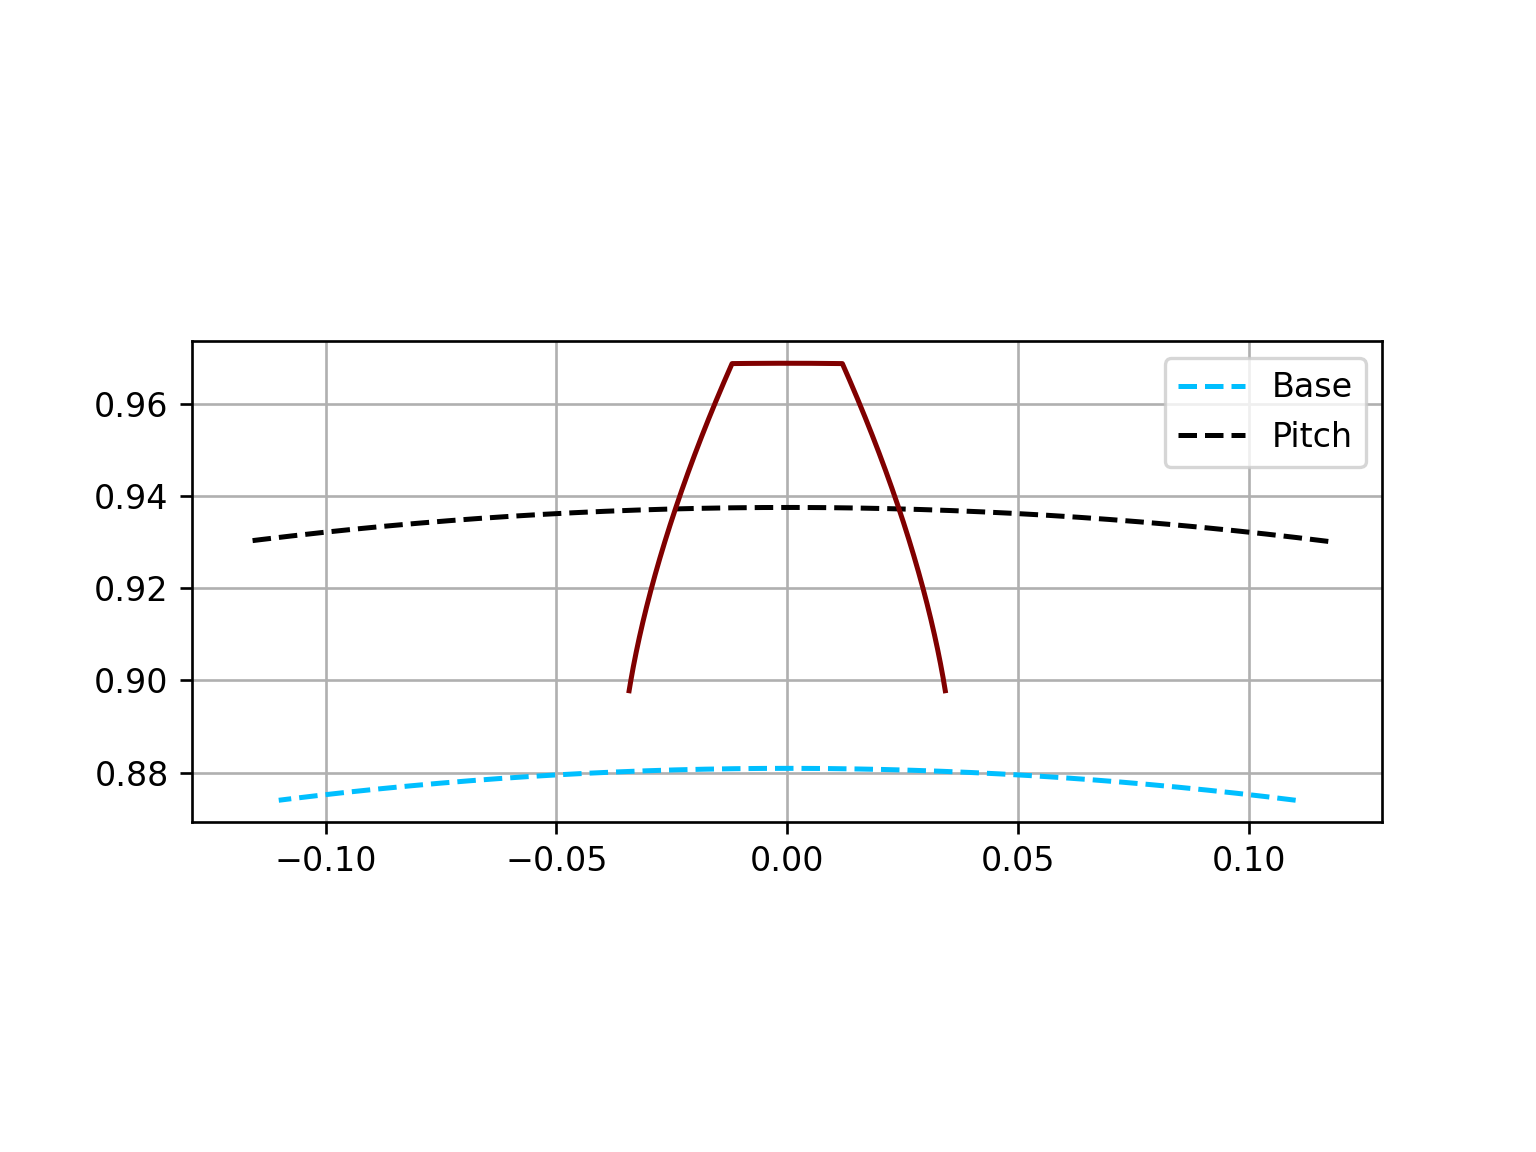
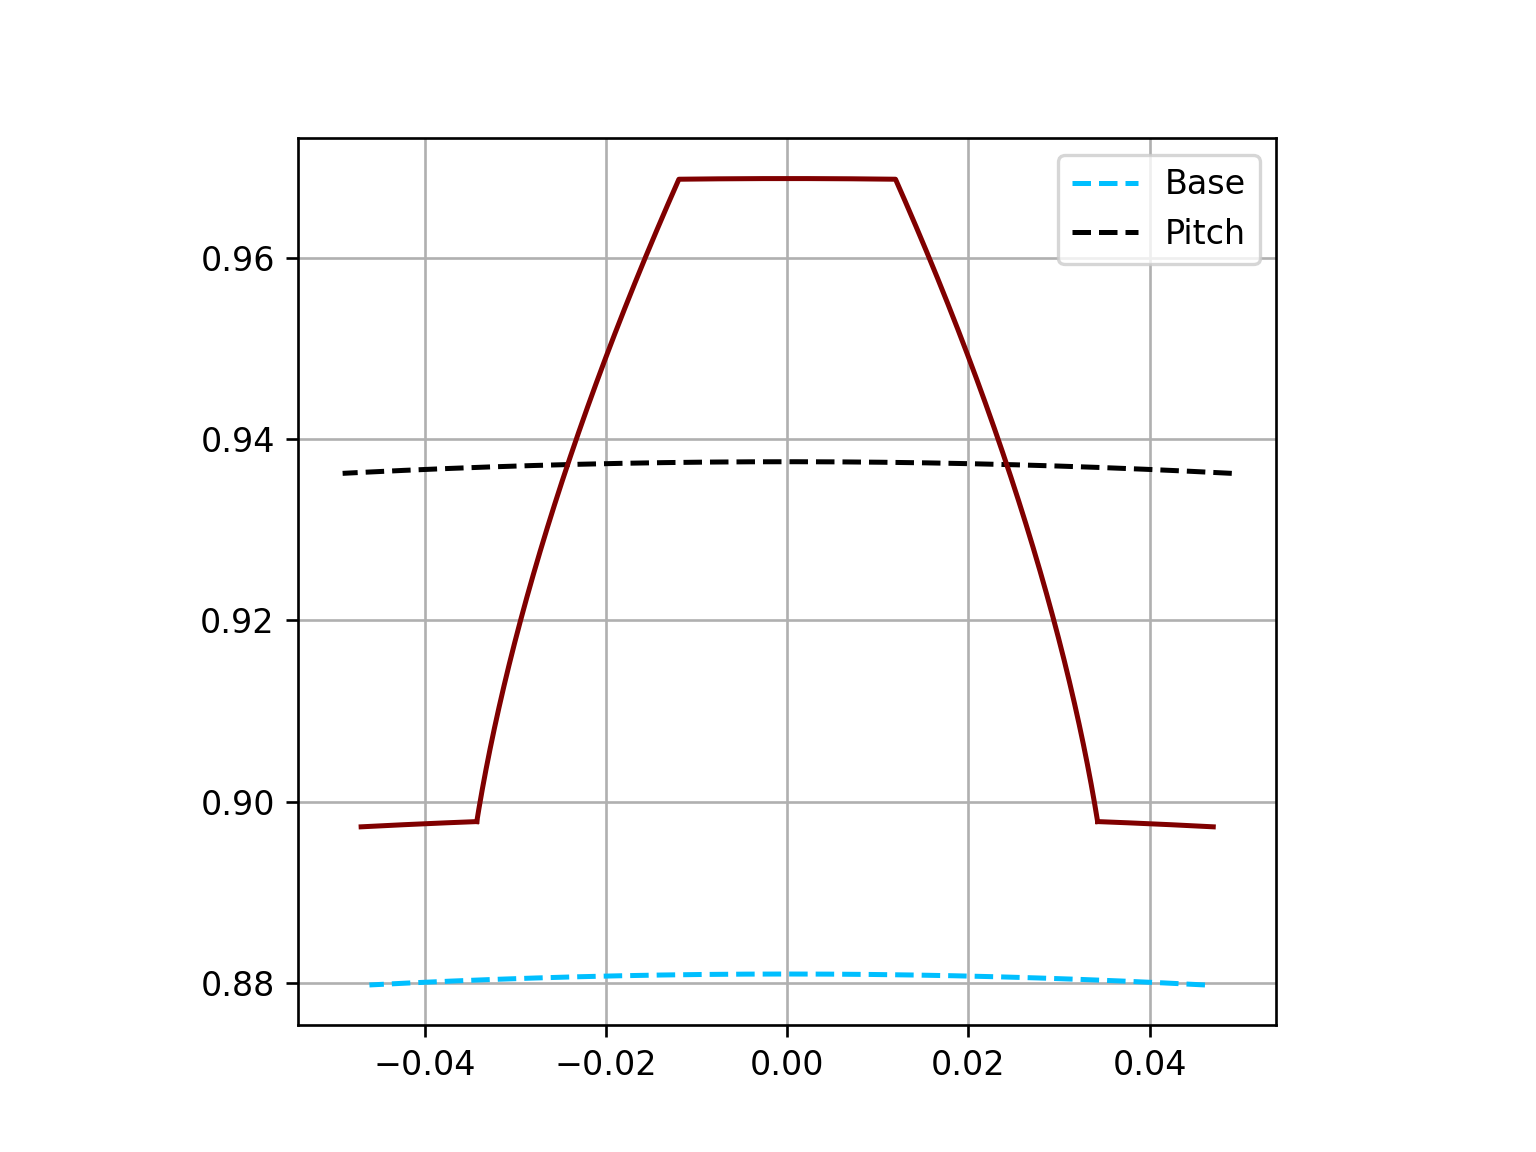
changed the name to SpurGear for future consideration of new types of gears

diff --git a/mechanism/gears.py b/mechanism/gears.py
@@ -9,7 +9,7 @@ from .dataframe import Data
 from .vectors import APPEARANCE
 
 
-class Gear:
+class SpurGear:
     with open(APPEARANCE, 'r') as f:
         appearance = json.load(f)
 
@@ -148,7 +148,7 @@ class Gear:
         involute_points = np.insert(involute_points, 0, self.rb + 0j) if self.rb < self.r_base else involute_points
 
         # Rotate the involute curve and get the reflection/addendum circle
-        self.involute_points = np.abs(involute_points)*np.exp(1j*(np.angle(involute_points) + rotation))
+        self.involute_points = rotate(involute_points, rotation)
         self.involute_reflection = -1*np.real(self.involute_points) + 1j*np.imag(self.involute_points)
         addendum_start = np.angle(self.involute_points[-1])
         addendum_end = np.angle(self.involute_reflection[-1])
@@ -165,17 +165,25 @@ class Gear:
         :param save: The filepath to save the plot image to
         :param kwargs: This gets past to figure.savefig()
         """
-        angle_start = np.angle(self.involute_points[0]) - np.deg2rad(5)
-        angle_end = np.angle(self.involute_reflection[0]) + np.deg2rad(5)
+        between_teeth = 2*np.pi/self.N
+        dedendum_angle = np.angle(self.involute_reflection[0]) - np.angle(self.involute_points[0])
+        cushion_angle = (between_teeth - dedendum_angle)/2
+
+        angle_start = np.angle(self.involute_points[0]) - cushion_angle
+        angle_end = np.angle(self.involute_reflection[0]) + cushion_angle
+        dedendum_draw = np.linspace(angle_start, np.angle(self.involute_points[0]), 1000)
         thetas = np.linspace(angle_start, angle_end, 1000)
 
         base = self.r_base*np.exp(1j*thetas)
         pitch = self.r*np.exp(1j*thetas)
+        dedendum = self.rb*np.exp(1j*dedendum_draw)
 
         fig, ax = plt.subplots()
-        ax.plot(np.real(base), np.imag(base), **Gear.gear_appearance['base'])
-        ax.plot(np.real(pitch), np.imag(pitch), **Gear.gear_appearance['pitch'])
-        ax.plot(np.real(self.tooth_profile), np.imag(self.tooth_profile), **Gear.gear_appearance['tooth'])
+        ax.plot(np.real(base), np.imag(base), **SpurGear.gear_appearance['base'])
+        ax.plot(np.real(pitch), np.imag(pitch), **SpurGear.gear_appearance['pitch'])
+        ax.plot(np.real(self.tooth_profile), np.imag(self.tooth_profile), **SpurGear.gear_appearance['tooth'])
+        ax.plot(np.real(dedendum), np.imag(dedendum), **SpurGear.gear_appearance['tooth'])
+        ax.plot(-1*np.real(dedendum), np.imag(dedendum), **SpurGear.gear_appearance['tooth'])
 
         ax.set_aspect('equal')
         ax.legend()
@@ -221,3 +229,14 @@ class Gear:
                 ['Circular Backlash', f'{self.backlash:.5f}']]
 
         Data(info, headers=['Property', 'Value']).print(table=True)
+
+
+def rotate(coords, rotation):
+    """
+    Rotates a set of complex coordinates.
+
+    :param coords: An np.ndarray of complex numbers
+    :param rotation: The angle of rotation of the coordinates in radians
+    :return: An np.ndarray of complex numbers that is rotated the amount of 'rotation'
+    """
+    return np.abs(coords)*np.exp(1j*(np.angle(coords) + rotation))

diff --git a/mechanism/__init__.py b/mechanism/__init__.py
@@ -13,9 +13,10 @@ from .mechanism import Joint, Mechanism, get_joints, get_sum
 from .dataframe import Data, read_csv, print_matrix
 from .vectors import Vector
 from .cams import Cam
-from .gears import Gear
+from .gears import SpurGear
 
 THIS_DIR = os.path.dirname(__file__)
 sys.path.append(THIS_DIR)
 
-__all__ = ['Data', 'read_csv', 'print_matrix', 'Joint', 'Vector', 'Mechanism', 'get_joints', 'get_sum', 'Cam', 'Gear']
+__all__ = ['Data', 'read_csv', 'print_matrix', 'Joint', 'Vector', 'Mechanism', 'get_joints', 'get_sum', 'Cam',
+           'SpurGear']

diff --git a/examples/readme_gear_example.py b/examples/readme_gear_example.py
@@ -1,6 +1,6 @@
-from mechanism import Gear
+from mechanism import SpurGear
 
-gear = Gear(N=60, pd=32, agma=True, size=500)
+gear = SpurGear(N=60, pd=32, agma=True, size=500)
 gear.plot(save='../images/gear60.PNG', dpi=240)
 gear.save_coordinates(file='gear_tooth_coordinates.txt', solidworks=True)
 gear.rundown()

diff --git a/readme.md b/readme.md
@@ -364,11 +364,12 @@ Compare the gear to SolidWorks' gear from the tool library.
 Define a gear object with the known information and save the coordinates to a file.
 
 ```python
-from mechanism import Gear
+from mechanism import SpurGear
 
-gear = Gear(N=60, pd=32, agma=True, size=500)
+gear = SpurGear(N=60, pd=32, agma=True, size=500)
 gear.plot(save='../images/gear60.PNG', dpi=240)
 gear.save_coordinates(file='gear_tooth_coordinates.txt', solidworks=True)
+gear.rundown()
 ```
 
 output:
